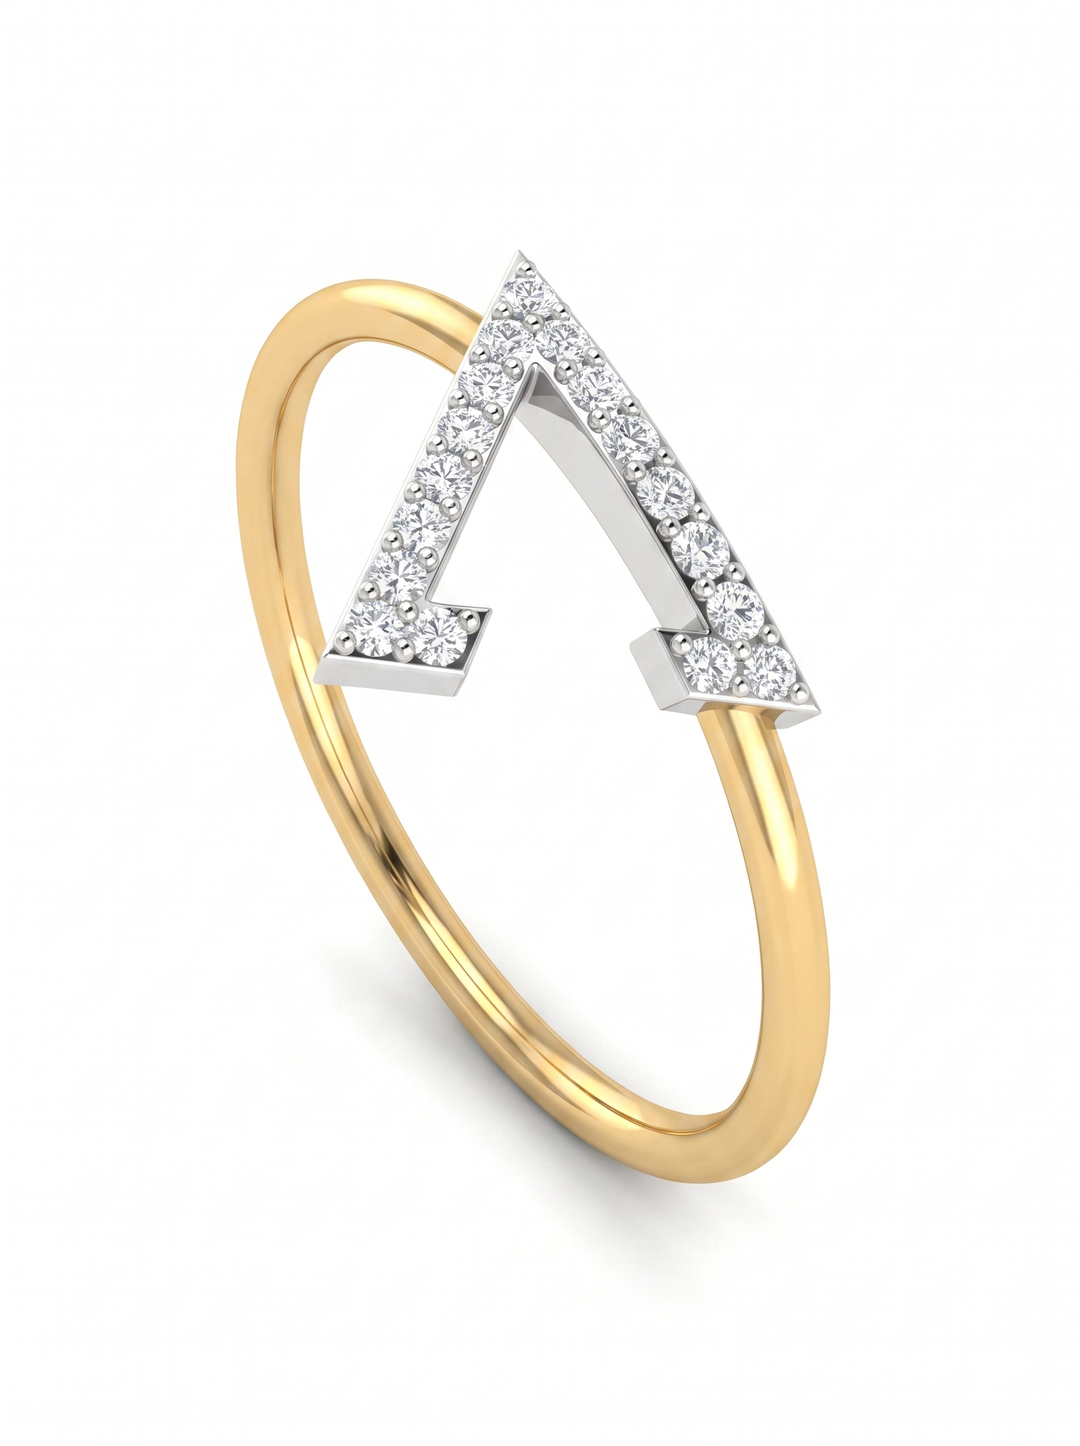
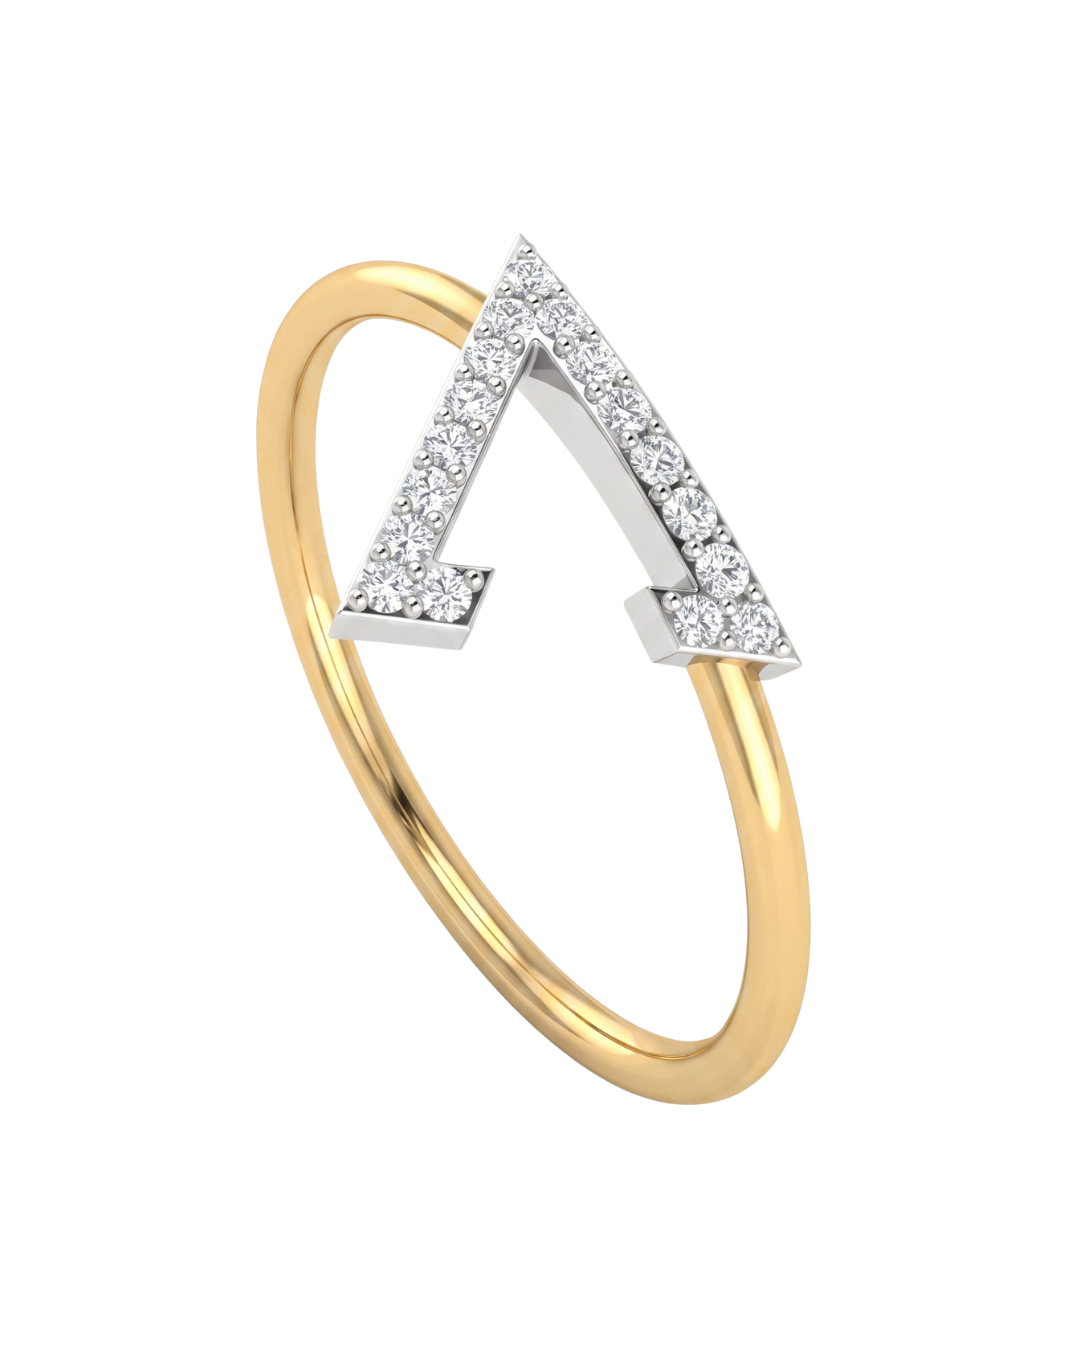
Fix uneven category card sizes; update ring photo
Switched the Shop by category grid from flex-wrap to CSS grid with
minmax(0,1fr) columns. Flex-wrap let a track grow past its fair share
when its content couldn't shrink — specifically "Bangles/Bracelets",
which has no spaces around the slash so browsers treat it as one
unbreakable word, forcing that whole column wider than the rest.
Verified all six cards now render pixel-identical at every tested
width (1440 down to 500px). Added a <wbr> after the slash so it wraps
cleanly onto two lines instead of overflowing.

Also swaps in the newly uploaded ring photo — proper transparent PNG
this time, replacing the plain-white-background version.

Changed region(s): [[0.2139, 0.1867, 0.7944, 0.8711], [0.7028, 0.7778, 0.7333, 0.8089]]

diff --git a/index.html b/index.html
@@ -469,8 +469,12 @@ body:not(.revealed) .ticker{opacity:0}
 .mq-item .card-img{aspect-ratio:4/5}
 
 /* ============ CATEGORY HOVER ROW ============ */
-.cats{display:flex;gap:clamp(10px,2vw,34px);align-items:flex-start;flex-wrap:wrap}
-.cat{flex:1 1 130px;text-align:center;display:block}
+/* grid, not flex-wrap — flex-wrap grows a half-empty final row's items
+   wider to fill the leftover space, so cards came out different sizes
+   depending on how many landed in the last row at a given width. grid
+   keeps every column (and so every card) exactly the same size always. */
+.cats{display:grid;grid-template-columns:repeat(6,minmax(0,1fr));gap:clamp(10px,2vw,34px)}
+.cat{text-align:center;display:block}
 /* a plain bordered card box — the product cutout sits inside at rest;
    moving the cursor near the tile flips the card in 3D to reveal the
    model-wearing shot on the back (added per category as those photos
@@ -500,7 +504,7 @@ body:not(.revealed) .ticker{opacity:0}
 .cat-card-face img{width:100%;height:100%;object-fit:contain;background:none}
 .cat-card-back{transform:rotateY(180deg)}
 .cat .label{
-  display:inline-block;font-size:clamp(13px,1.5vw,16.5px);
+  display:inline-block;max-width:100%;font-size:clamp(13px,1.5vw,16.5px);
   letter-spacing:.22em;text-transform:uppercase;
   border-bottom:1px solid var(--ink);padding-bottom:9px;
   transition:color .35s, border-color .35s;
@@ -836,6 +840,7 @@ body.nav-open{overflow:hidden}
   .assure-right{border-left:0;border-top:1px solid var(--line);padding-left:0;padding-top:34px}
   .editorial{grid-template-columns:1fr}
   .footer-grid{grid-template-columns:1fr 1fr;gap:34px}
+  .cats{grid-template-columns:repeat(3,minmax(0,1fr))}
 }
 @media(max-width:680px){
   .rail{grid-template-columns:repeat(2,1fr)}
@@ -852,7 +857,7 @@ body.nav-open{overflow:hidden}
   .posters{grid-template-columns:1fr;grid-template-rows:auto}
   .poster.tall{grid-row:auto}
   .poster:not(.tall){aspect-ratio:16/10}
-  .cat{flex:1 1 40%}
+  .cats{grid-template-columns:repeat(2,minmax(0,1fr))}
   .editorial p{max-width:none}
   .footer-grid{grid-template-columns:1fr;gap:30px}
   .foot-row{padding:20px 0}
@@ -1441,7 +1446,7 @@ Promise.all([GoldRate.get(), Products.fetch()]).then(([rate, products]) => rende
 /* ---------- CATEGORIES — image appears on hover ---------- */
 const CATS = [
   {n:'Necklaces',         href:'Necklaces', img:'duo/img/necklace-category.png'},
-  {n:'Bangles/Bracelets', href:'Bangles',   img:'duo/img/bracelet-category.png'},
+  {n:'Bangles/<wbr>Bracelets', href:'Bangles', img:'duo/img/bracelet-category.png'},
   {n:'Chains',            href:'Chains',    img:'duo/img/chains-category.png'},
   {n:'Earrings',          href:'Earrings',  img:'duo/img/earrings-category.png'},
   {n:'Rings',             href:'Rings',     img:'duo/img/ring-category.png'},
